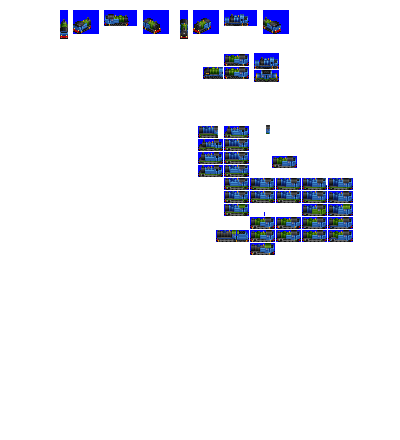
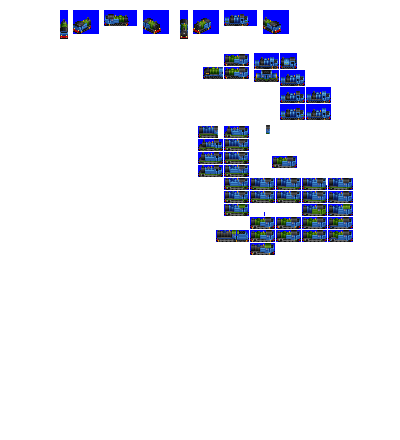
Change: more WIP on final Pony engines

Changed region(s): [[0.69, 0.1182, 0.84, 0.2955], [0.57, 0.0295, 0.63, 0.0591]]

diff --git a/src/rosters/pony.py b/src/rosters/pony.py
@@ -10,7 +10,6 @@ from vehicles import auto_coach_pony_gen_2
 from vehicles import argus
 from vehicles import arrow
 from vehicles import avenger
-from vehicles import baddesley
 from vehicles import bean_feast
 from vehicles import blackthorn
 from vehicles import blaze
@@ -37,6 +36,7 @@ from vehicles import chuggypig
 from vehicles import clipper
 from vehicles import daring
 from vehicles import deasil
+from vehicles import decapod
 from vehicles import defiant
 from vehicles import diablo
 from vehicles import dover
@@ -149,6 +149,7 @@ from vehicles import westbourne
 from vehicles import withershins
 from vehicles import workish
 from vehicles import wyvern
+from vehicles import xerxes
 from vehicles import yillen
 from vehicles import zebedee
 from vehicles import zest
@@ -329,6 +330,7 @@ def main(disabled=False):
             # branch express
             lark,
             merrylegs,
+            decapod,
             proper_job,
             stag,
             kelpie,
@@ -388,7 +390,6 @@ def main(disabled=False):
             # branch freight
             buffalo,
             saxon,
-            baddesley,
             little_bear,
             captain_steel,
             goliath,
@@ -406,6 +407,7 @@ def main(disabled=False):
             phoenix,
             vigilant,
             blind_smuir,
+            xerxes,
             mainstay,
             yillen,
             girt_licker,

diff --git a/src/vehicles/decapod.py b/src/vehicles/decapod.py
@@ -1,0 +1,29 @@
+# deprecated
+from train import EngineConsist, SteamEngineUnit
+
+
+def main(roster_id):
+    consist = EngineConsist(
+        roster_id=roster_id,
+        id="decapod",
+        base_numeric_id=6770,
+        name="0-10-0 Decapod",
+        role="branch_express",
+        role_child_branch_num=-1,
+        power=650,
+        gen=2,
+        intro_date_offset=-7,  # let's be a little bit later for this one
+        tractive_effort_coefficient=0.2,
+        fixed_run_cost_points=120,  # substantial cost bonus so it can make money
+        random_reverse=True,
+        sprites_complete=False,
+    )
+
+    consist.add_unit(type=SteamEngineUnit, weight=65, vehicle_length=6, spriterow_num=0)
+
+    consist.description = (
+        """."""
+    )
+    consist.foamer_facts = """ big tanks"""
+
+    return consist

diff --git a/src/vehicles/xerxes.py b/src/vehicles/xerxes.py
@@ -1,0 +1,26 @@
+from train import EngineConsist, SteamEngineUnit
+
+
+def main(roster_id):
+    consist = EngineConsist(
+        roster_id=roster_id,
+        id="xerxes",
+        base_numeric_id=6760,
+        name="0-6-0+0-6-0 Xerxes",
+        role="heavy_freight",
+        role_child_branch_num=1,
+        power=1450,
+        gen=1,
+        intro_date_offset=-10,  # introduce earlier than gen epoch by design
+        fixed_run_cost_points=140,  # minor run cost bonus as default algorithm makes run cost too high
+        sprites_complete=False,
+    )
+
+    consist.add_unit(
+        type=SteamEngineUnit, weight=49, vehicle_length=5, spriterow_num=0, repeat=2,
+    )
+
+    consist.description = """."""
+    consist.foamer_facts = """GWR pannier tanks, original TTD Kirby 'Paul'"""
+
+    return consist
